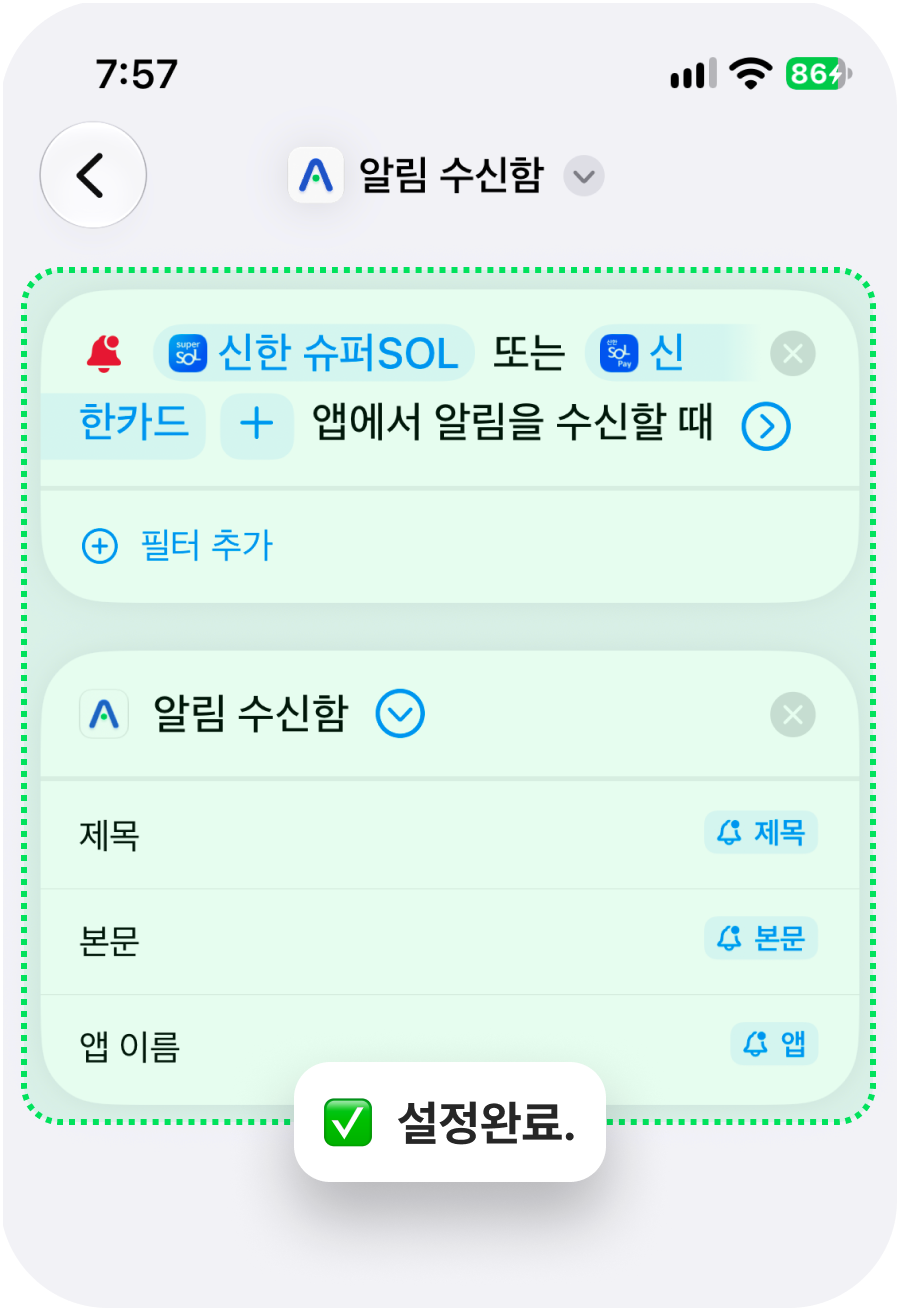
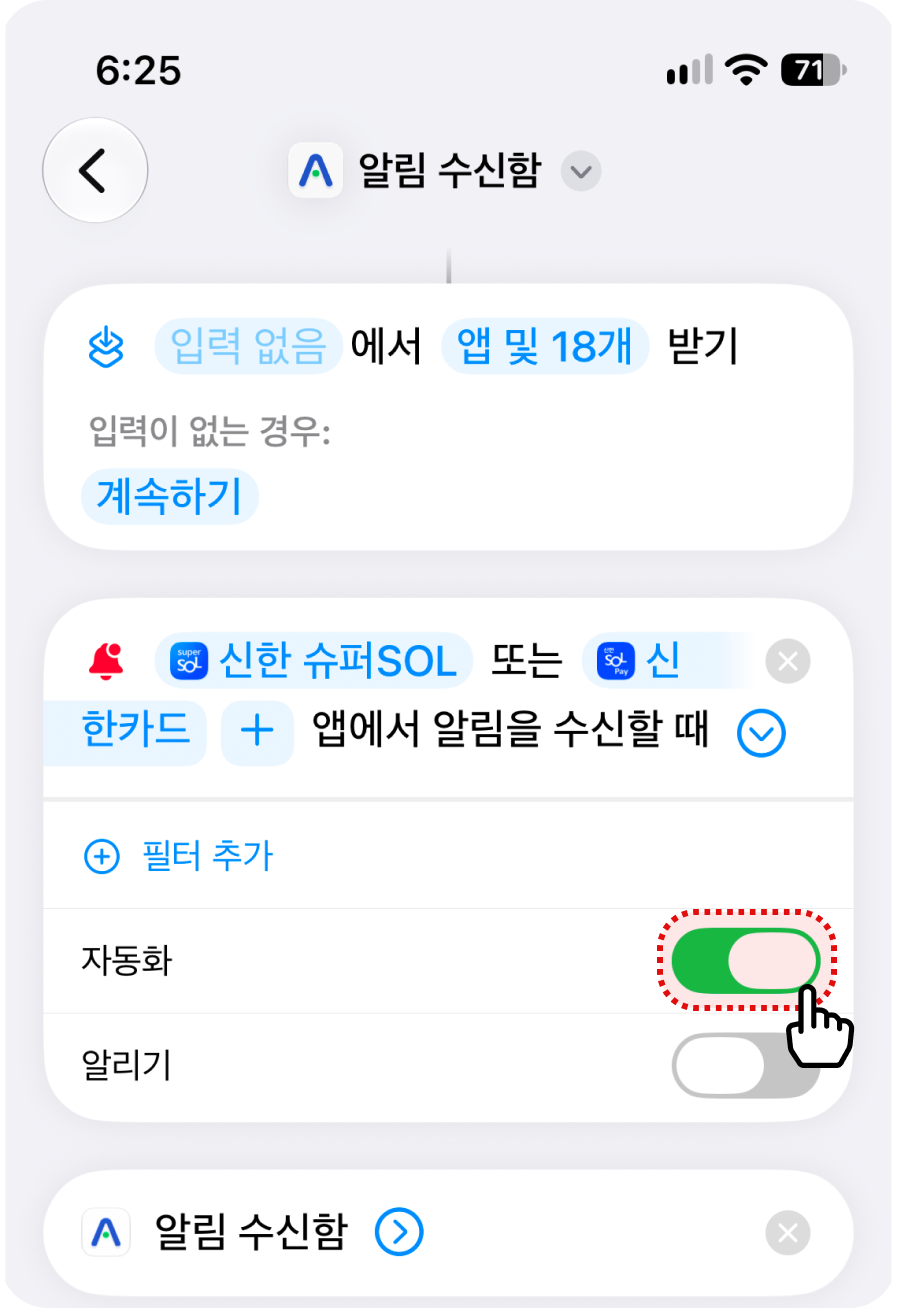
[26.10.08 18:42:40] 알림 수신함 설정 가이드 5단계로 확장·Step 04 문구 갱신

diff --git a/constants/sms-receive-setup-guide.ts b/constants/sms-receive-setup-guide.ts
@@ -64,7 +64,7 @@ export const SMS_RECEIVE_SETUP_GUIDE_STEPS: readonly SmsReceiveSetupGuideStep[] 
   },
 ] as const;
 
-/** 알림 수신함 설정 가이드 — Figma 2423:25611(01) · 2423:27140(02) · 2423:27303(03) · 2423:27463(04) */
+/** 알림 수신함 설정 가이드 — Figma 2423:25611(01) · 2423:27140(02) · 2423:27303(03) · 2423:27463(04) · 2485:52486(05) */
 export const APP_NOTIFICATION_RECEIVE_SETUP_GUIDE_STEPS: readonly SmsReceiveSetupGuideStep[] = [
   {
     id: '01',
@@ -86,8 +86,14 @@ export const APP_NOTIFICATION_RECEIVE_SETUP_GUIDE_STEPS: readonly SmsReceiveSetu
   },
   {
     id: '04',
-    title: 'Step 04. 알림 수신함 설정 완료',
-    description: '수신할 대상들을 설정을 완료 후\n자동화를 통해 기록들을 생성하세요.',
+    title: 'Step 04. 자동화 기능 활성화',
+    description: '수신할 대상들을 선택 후\n알림 수신 시 자동실행 기능을 활성화 하세요.',
     image: require('../assets/images/notification_receive-setting-guide04.png'),
+  },
+  {
+    id: '05',
+    title: 'Step 05. 알림 수신함 설정 완료',
+    description: '수신할 대상들을 설정을 완료 후\n자동화를 통해 기록들을 생성하세요.',
+    image: require('../assets/images/notification_receive-setting-guide05.png'),
   },
 ] as const;
